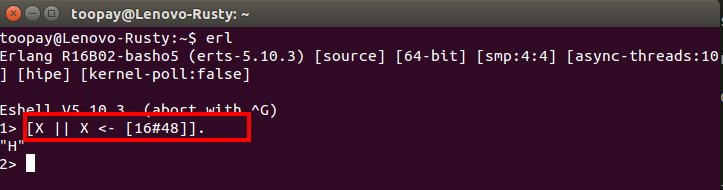
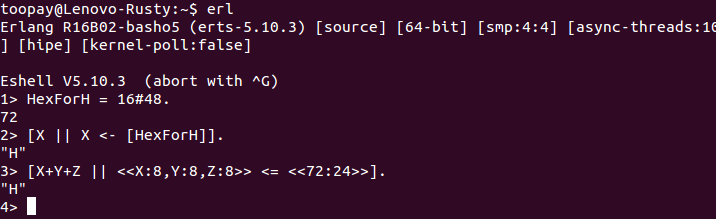
Jan post [continued]

Changed region(s): [[0.0, 0.0, 1.0, 0.4737], [0.0, 0.5, 0.5531, 1.0], [0.9832, 0.5, 1.0, 0.5263]]

diff --git a/_posts/2015-1-1-New-Year-And-Erlang.md b/_posts/2015-1-1-New-Year-And-Erlang.md
@@ -40,10 +40,24 @@ For those who want to know how it works, its actually very simple. First of all,
 
 {% gist facecceb90f502913de1 %}
 
-Since the quiz do not accept any string, we can exploit Hexadecimal to produce the character with the help of both Erlang [pattern matching] and [list comprehensions]. For example, we can produce `**H**` from `16#48` by bellow operation :
+Since the quiz do not accept any string, we can exploit Hexadecimal to produce the character with the help of both Erlang [pattern matching] and [list comprehensions]. 
+
+For example, we can produce `H` string from `16#48` by bellow operation :
+
+```
+[X || X <- [16#48]]
+```
+
+Which then, could be obsfucated even further using some bit syntax :
+
+```
+[X+Y+Z || <<X:8,Y:8,Z:8>> <= <<72:24>>]
+```
+As shown on bellow Erlang shell.
 
 ![Hello-1]({{ site.baseurl }}/images/hello-1.png)
 
+After-ward, its just a matter using `erlang:apply` as callback and converting `io` and `format` atoms with same technique described above.
 
 ## Fault tolerance, Concurency and Hot-Code swapping
 
